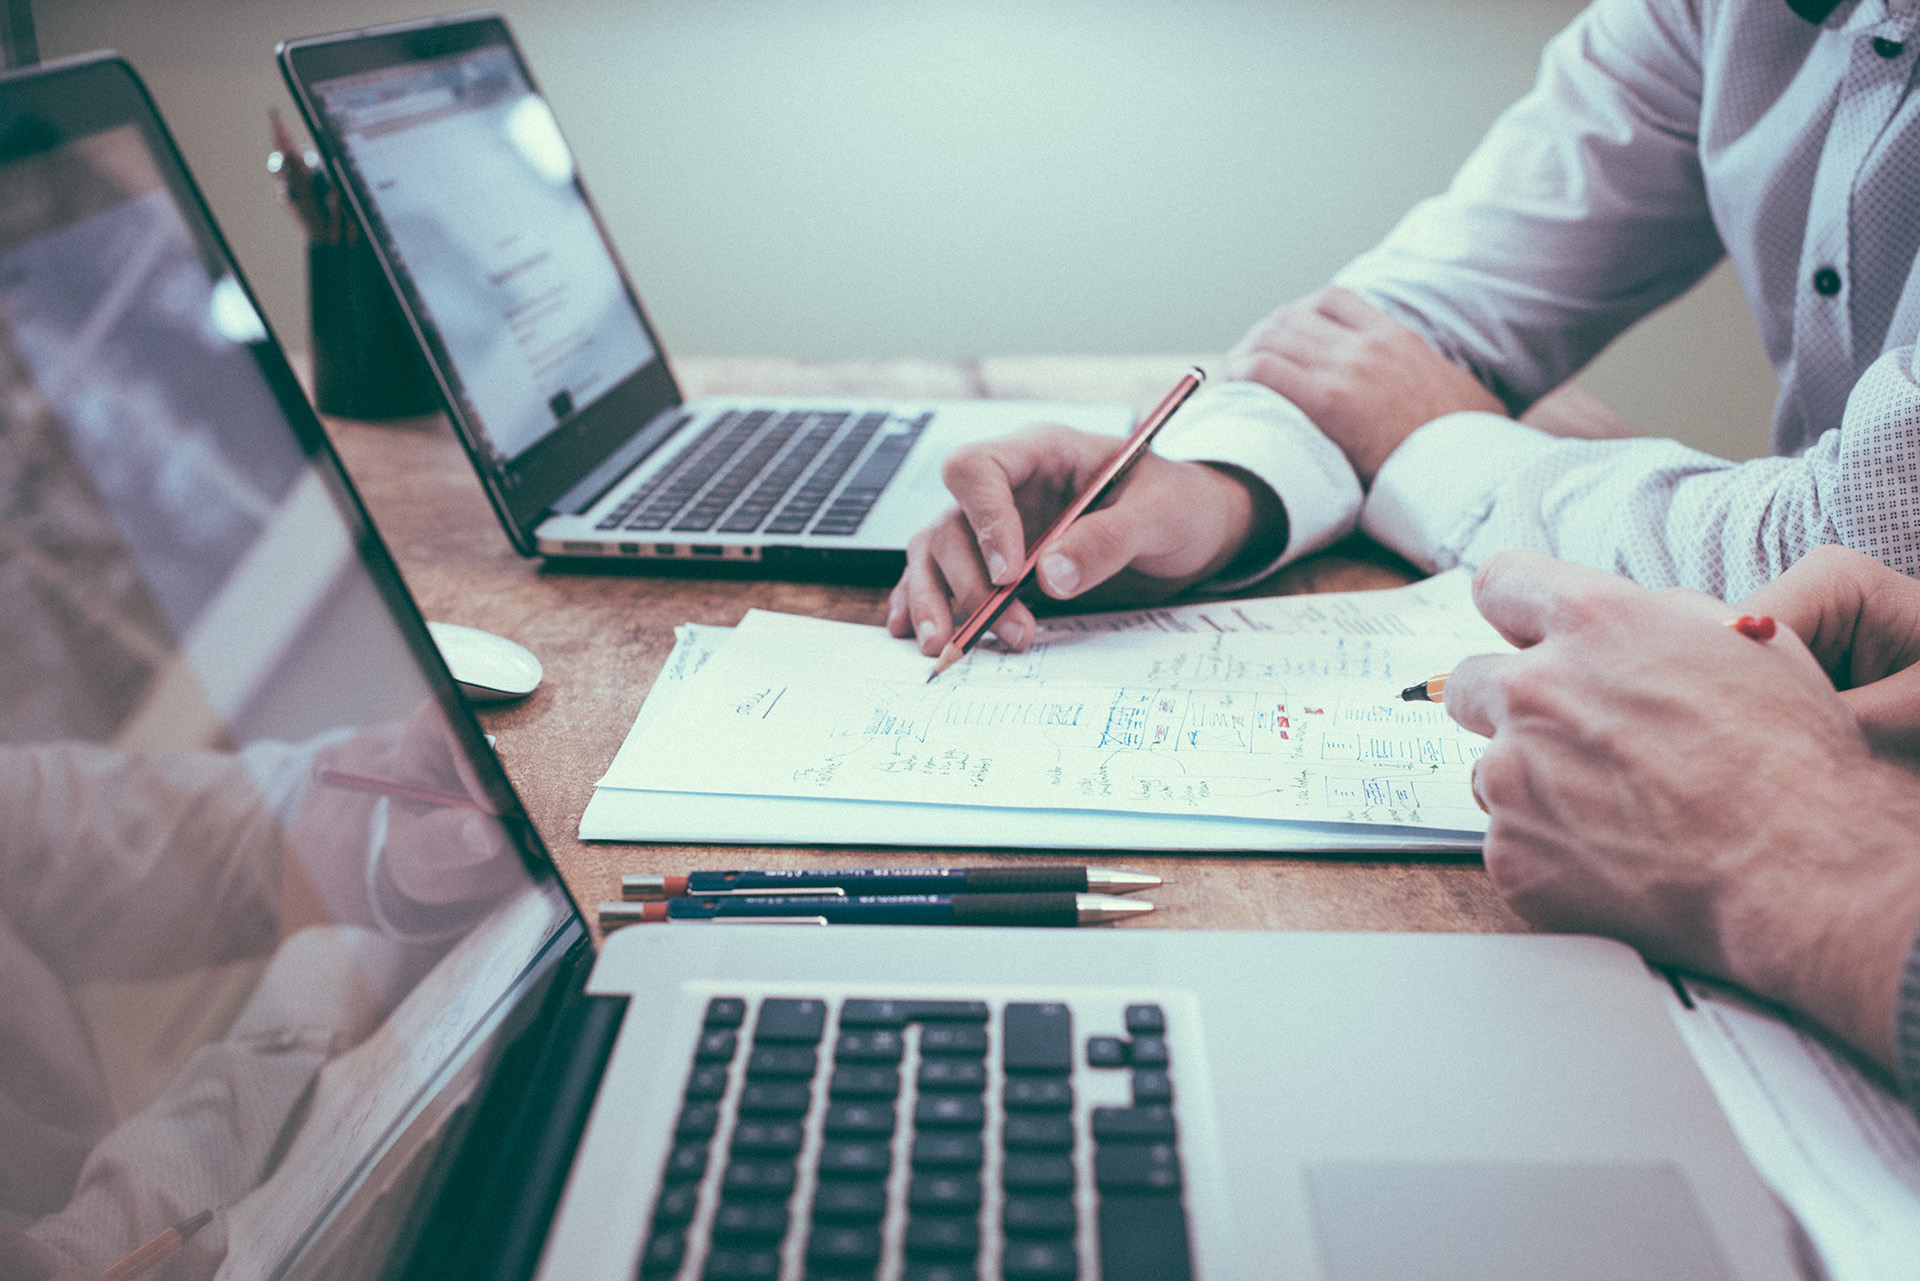
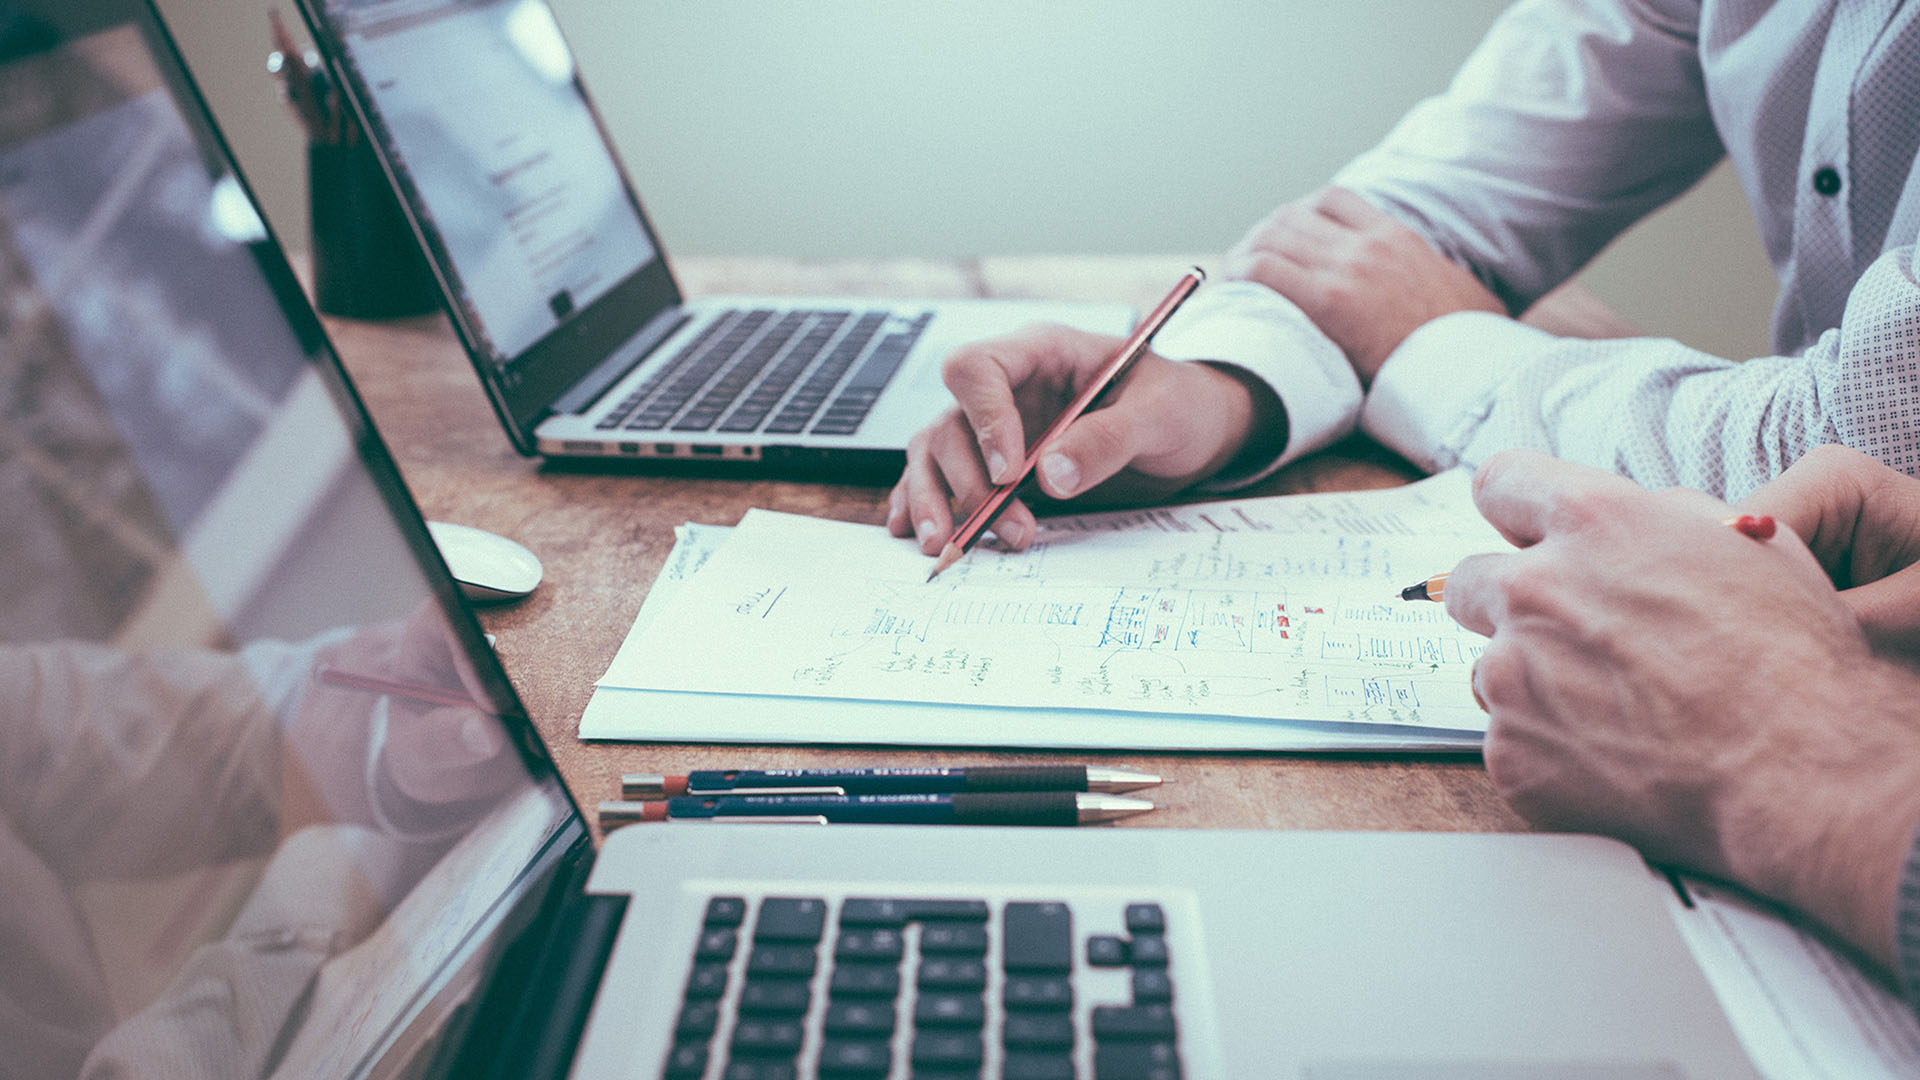
image sizes reduced + some image file name changes.

diff --git a/index.html b/index.html
@@ -136,17 +136,17 @@ accusantium doloremque laudantium, totam rem aperiam</p>
     <h2>ABOUT US</h2>
     <p>Sed ut perspiciatis unde omnis iste natus error sit voluptatem accusantium doloremque laudantium, totam rem aperiam</p>
     <div class="image-text">
-      <img src="assets/img/FRIENDLY-TEAM-01.jpg" alt="FRIENDLY TEAM">
+      <img src="assets/img/about-1.jpg" alt="FRIENDLY TEAM">
       <div class="vl"></div>
       <h5>FRIENDLY TEAM</h5>
     </div>
     <div class="image-text">
-      <img src="assets/img/involved-01.jpg" alt="INVOLVED">
+      <img src="assets/img/about-2.jpg" alt="INVOLVED">
       <div class="vl"></div>
       <h5>INVOLVED</h5>
     </div>
     <div class="image-text">
-      <img src="assets/img/24-7-ASSISTANCE-01.jpg" alt="24/7 ASSISTANCE">
+      <img src="assets/img/about-3.jpg" alt="24/7 ASSISTANCE">
       <div class="vl"></div>
       <h5>24/7 ASSISTANCE</h5>
     </div>

diff --git a/style.css b/style.css
@@ -231,7 +231,7 @@ noscript {
 
 #contact-us::after {
   content: "";
-  background-image: url('assets/img/contact-us-02.jpg');
+  background-image: url('assets/img/contact-us-1.jpg');
   background-repeat: no-repeat;
   background-position: center;
   background-size: cover;
